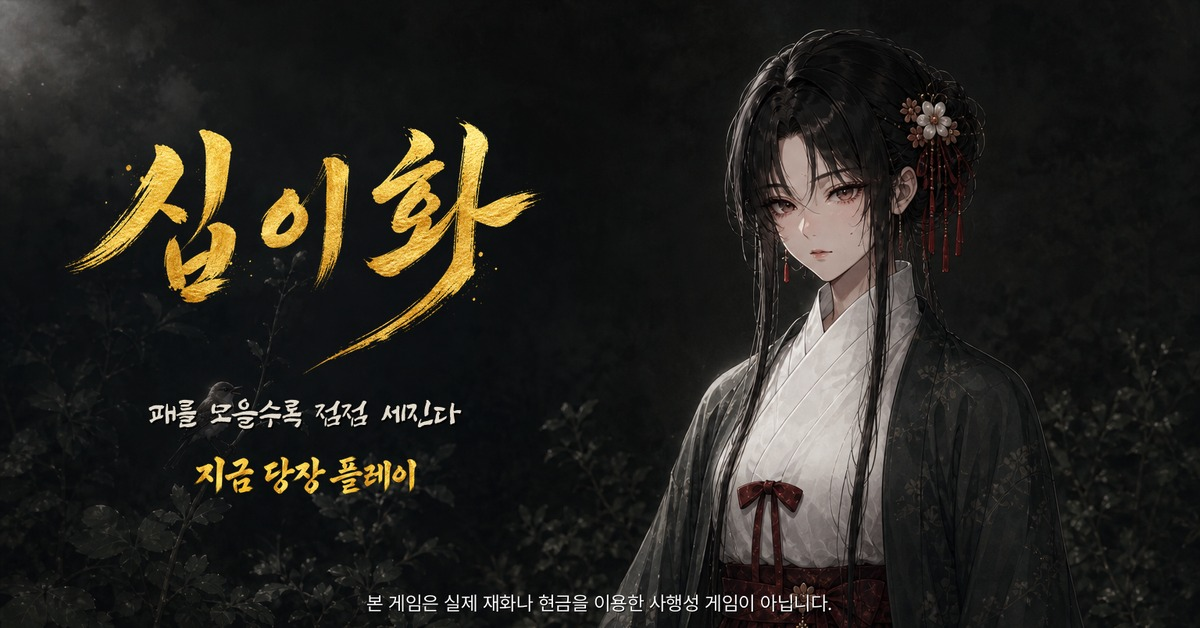
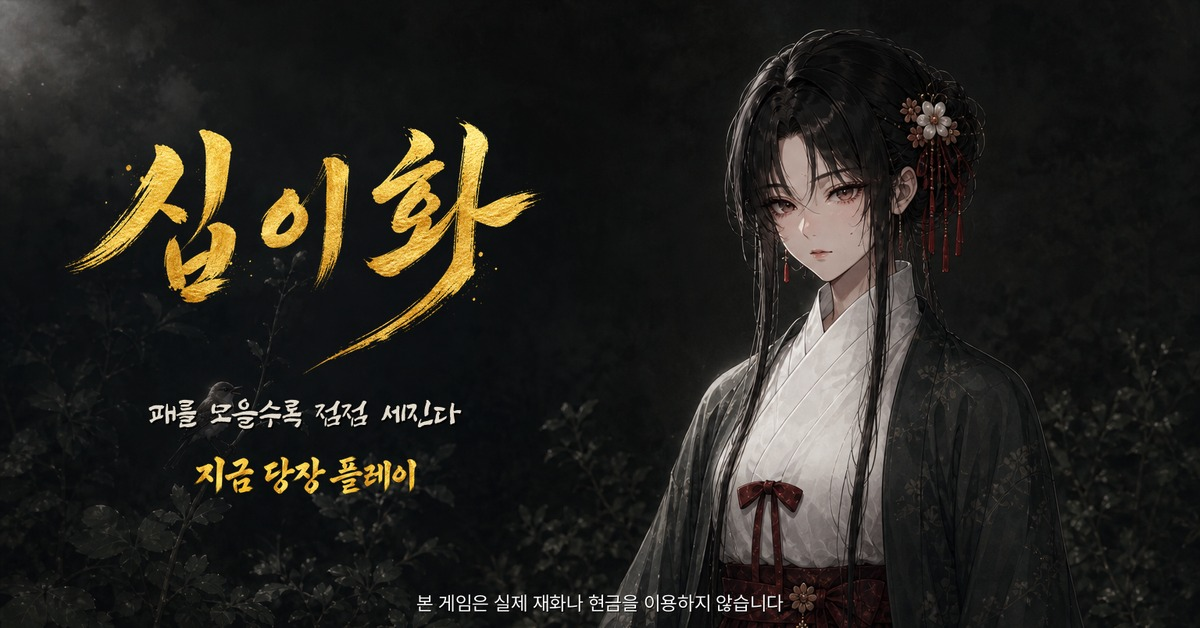
소재 하단 고지에서 「사행성 게임」이라는 단어를 뺀다
'본 게임은 실제 재화나 현금을 이용한 사행성 게임이 아닙니다'
→ '본 게임은 실제 재화나 현금을 이용하지 않습니다'

분류기는 부정문을 잘 읽지 못한다. 아니라고 쓰는 것보다 그 단어를 아예
안 쓰는 편이 안전하고, 전달하려는 사실(현금·재화를 쓰지 않는다)은 그대로
남는다.

12장 전부 재조판했다.

Changed region(s): [[0.3083, 0.9379, 0.7092, 0.9984]]

diff --git a/design/15_google_campaign/src/lockup.py b/design/15_google_campaign/src/lockup.py
@@ -28,7 +28,9 @@ SUB, SUB_SIZE = sys.argv[9], int(sys.argv[10])
 INK = len(sys.argv) > 11 and sys.argv[11] == "ink"   # 크림 한지 배경용 먹색 조판
 LOGO_OVERRIDE = sys.argv[12] if len(sys.argv) > 12 else None   # 로고 파일 교체 (네이밍 비교용)
 
-NOTICE = "본 게임은 실제 재화나 현금을 이용한 사행성 게임이 아닙니다."
+# 「사행성 게임」이라는 단어 자체를 문면에서 뺀다 — 분류기는 부정문을 잘 읽지
+# 못하므로, 아니라고 쓰는 것보다 그 단어를 안 쓰는 편이 안전하다.
+NOTICE = "본 게임은 실제 재화나 현금을 이용하지 않습니다"
 HERE = os.path.dirname(os.path.dirname(os.path.abspath(__file__)))   # src/ 의 상위 = 캠페인 루트
 G = os.path.join(HERE, "gen")
 H = os.path.expanduser("~/Library/Fonts")

diff --git a/design/15_google_campaign/README-FOLDER.md b/design/15_google_campaign/README-FOLDER.md
@@ -70,4 +70,4 @@ node src/charcount.mjs       # 문구 자수 검증
 
 - **소재의 타이포는 3단이다** — 로고 「십이화」 / 월별 부제 / CTA. 로고와 CTA는 붓글씨 이미지(12장 공용), 월별 부제만 인게임 폰트다. 공통 태그라인(「꽃으로 수놓은 밤」)을 넣어봤으나 블록이 세로로 길어져 뺐다 — 자산은 `gen/type/tagline/` 에 남아 있다.
 - **인게임 폰트 `SSRockRegular` 는 서브셋이다** (한글 557자 / 완성형 11,172자). 부제 문구를 고치면 `src/lockup.py` 가 누락 글자를 stderr 로 경고한다. 무시하면 두부(⊠)가 그대로 나간다.
-- 소재의 사행성 고지 문구는 들어갔지만 **랜딩페이지 고지는 아직 미적용**이다 ([README §6](README.md) 항목 5).
+- 소재 하단 고지는 「본 게임은 실제 재화나 현금을 이용하지 않습니다」다. **「사행성 게임」이라는 단어를 문면에서 뺐다** — 분류기는 부정문을 잘 못 읽으므로 아니라고 쓰는 것보다 그 단어를 안 쓰는 편이 안전하다. **랜딩페이지 고지는 아직 미적용**이다 ([README §6](README.md) 항목 5).
